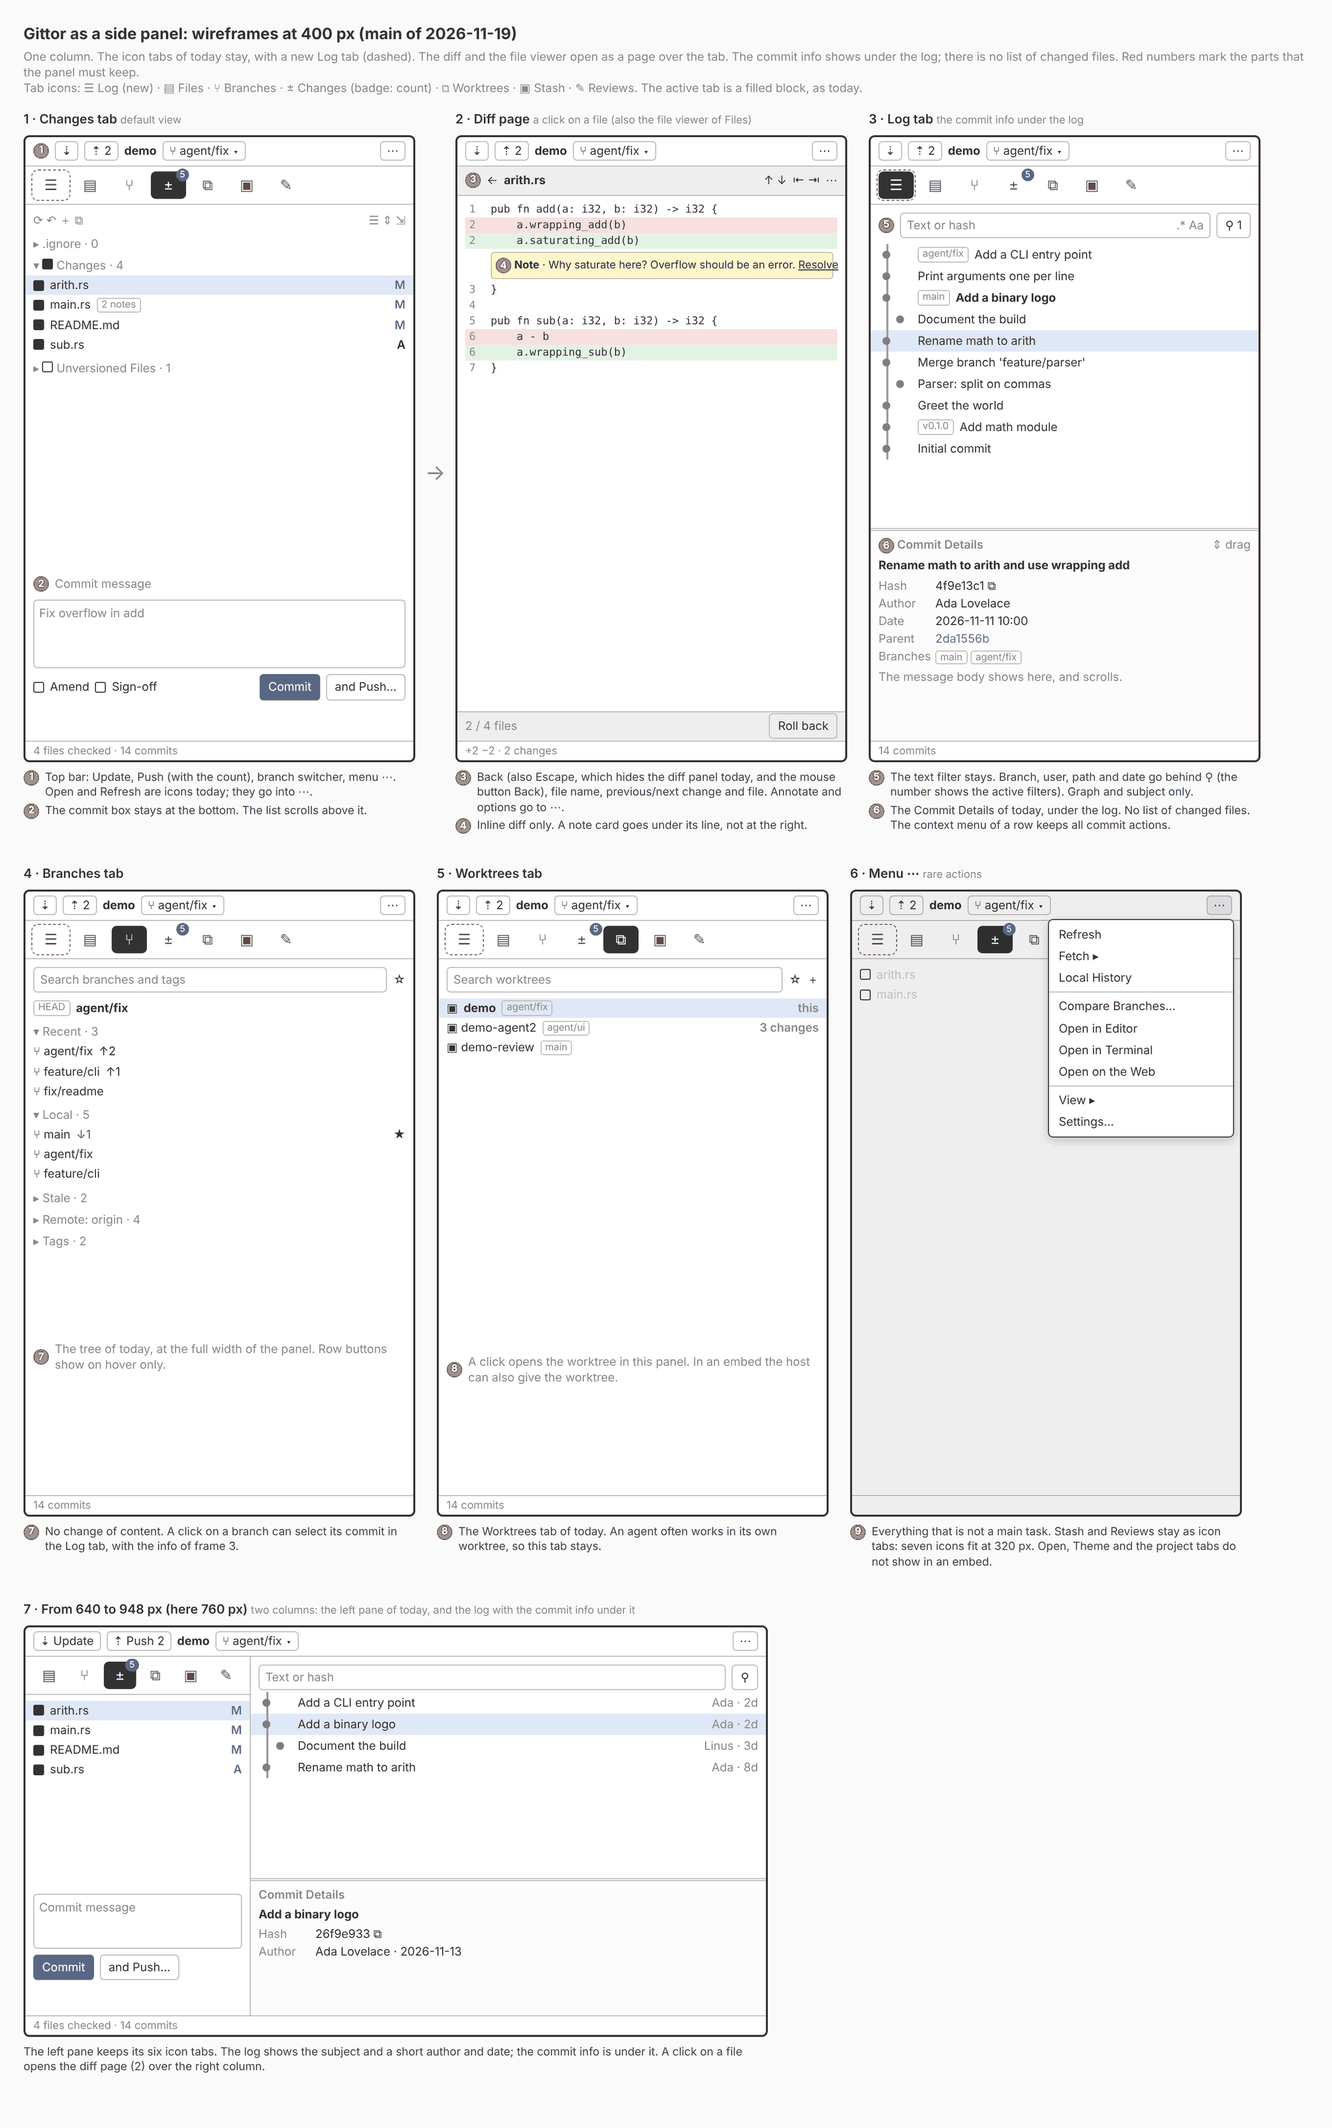
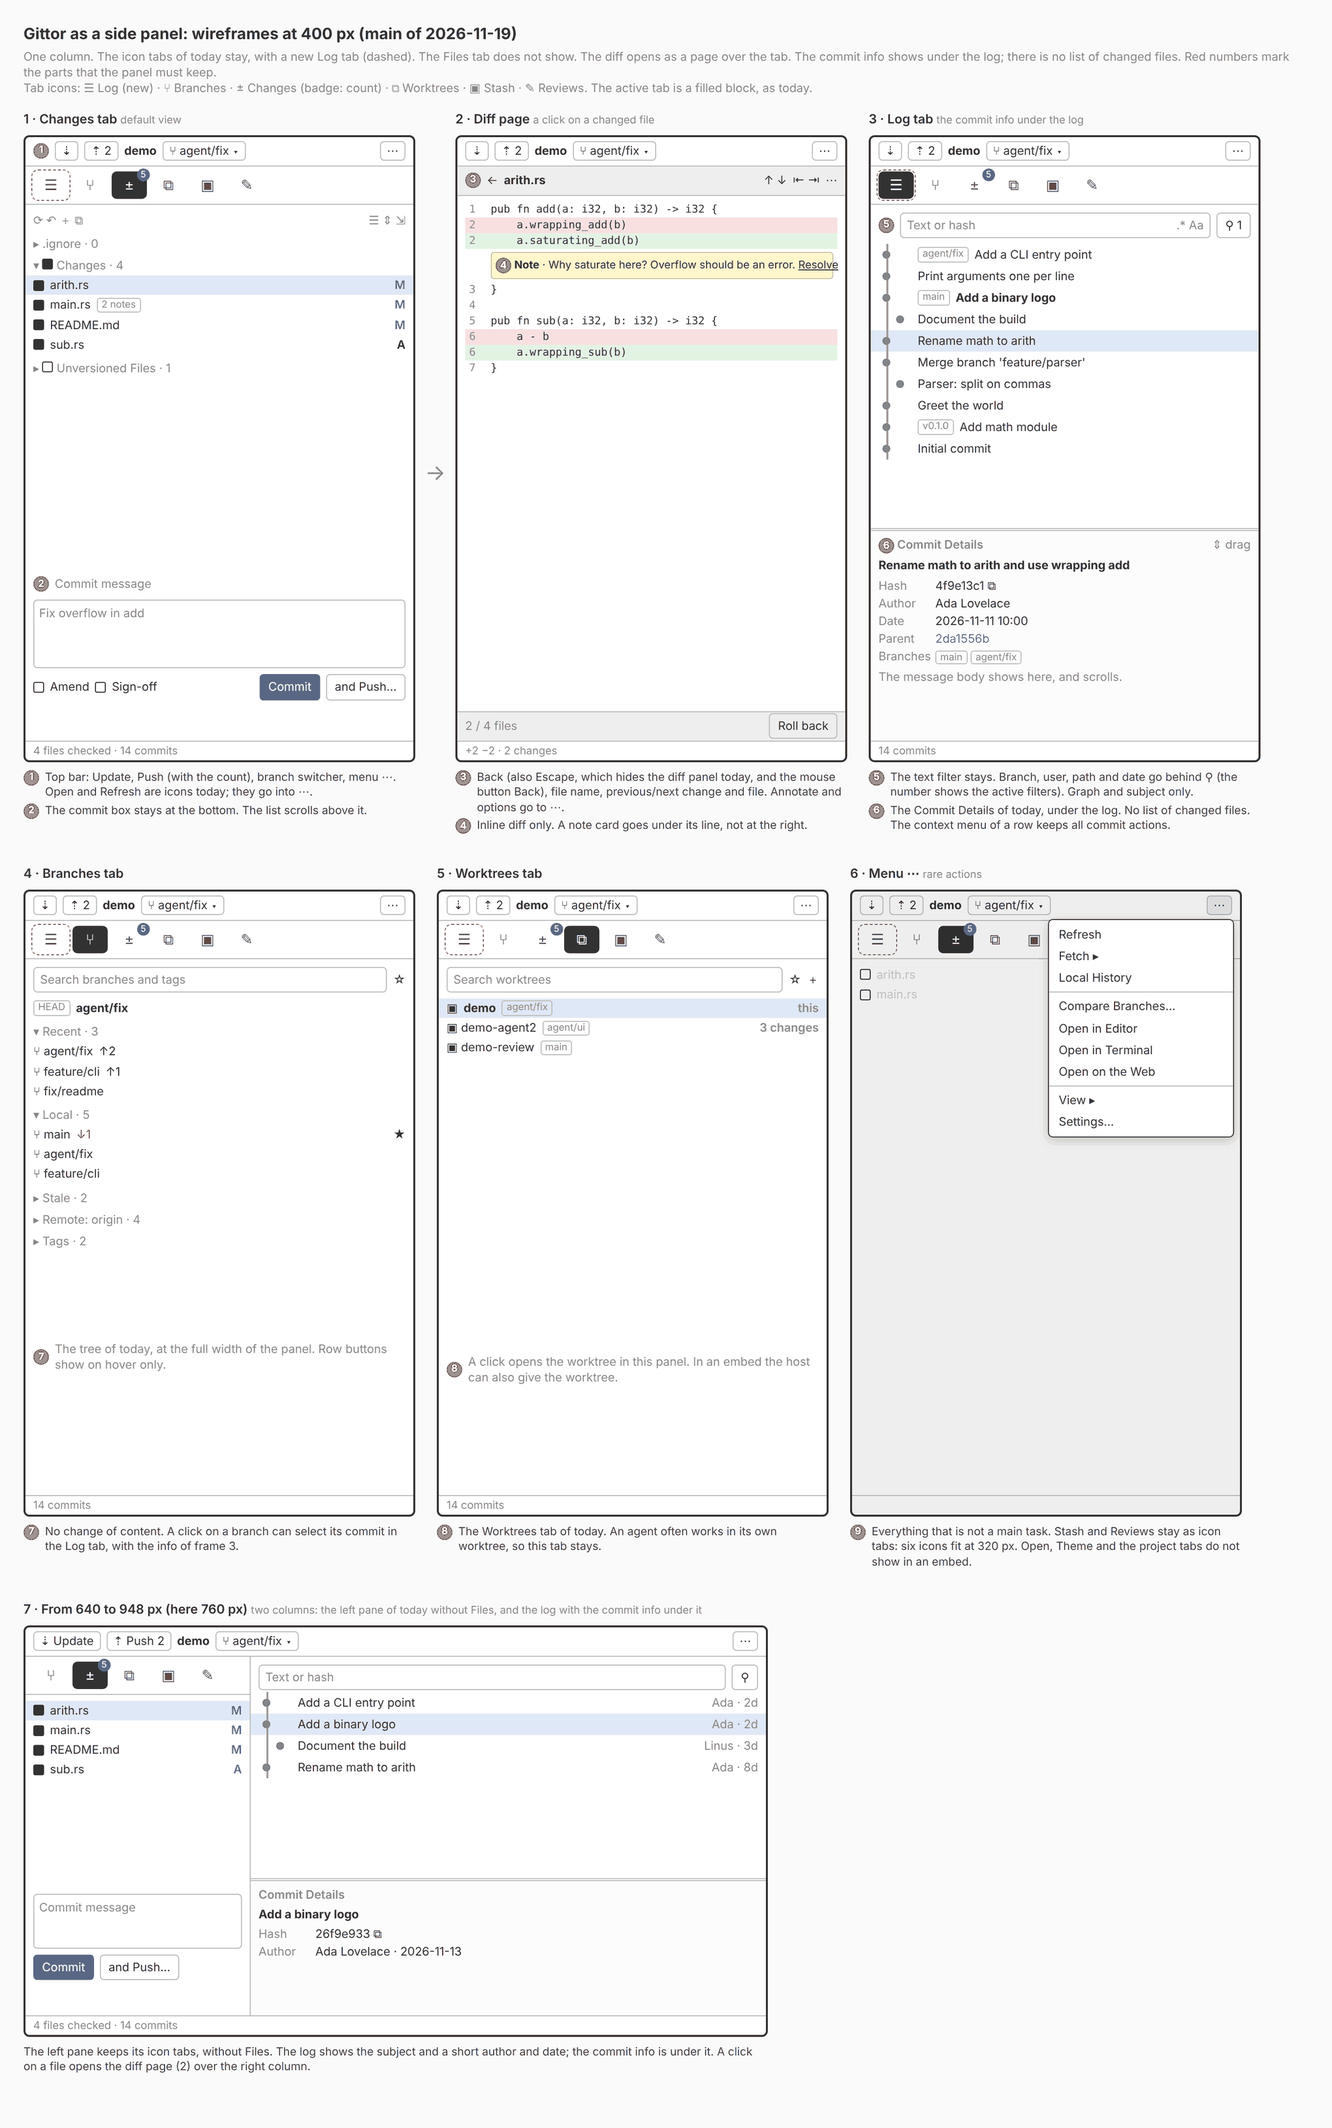
Narrow layout: hide the Files tab
The owner decided that the side panel does not need the Files tab. The
host editor shows the files.

The wireframes show five icon tabs and the new Log tab. The diff page
opens for a changed file only. The report hides the Files tab and its
key under the breakpoint.

Claude-Session: https://claude.ai/code/session_01Tuh4Sd5K2JTfGiGPAmueJ5

diff --git a/docs/narrow-layout/wireframes.html b/docs/narrow-layout/wireframes.html
@@ -69,7 +69,7 @@ h1 { font-size:16px; margin:0 0 4px; } .sub { color:var(--mute); margin:0 0 16px
 .split .t { color:var(--mute); font-weight:600; margin-bottom:4px; }
 </style></head><body>
 <h1>Gittor as a side panel: wireframes at 400 px (main of 2026-11-19)</h1>
-<p class="sub">One column. The icon tabs of today stay, with a new Log tab (dashed). The diff and the file viewer open as a page over the tab. The commit info shows under the log; there is no list of changed files. Red numbers mark the parts that the panel must keep.<br>Tab icons: ☰ Log (new) · ▤ Files · ⑂ Branches · ± Changes (badge: count) · ⧉ Worktrees · ▣ Stash · ✎ Reviews. The active tab is a filled block, as today.</p>
+<p class="sub">One column. The icon tabs of today stay, with a new Log tab (dashed). The Files tab does not show. The diff opens as a page over the tab. The commit info shows under the log; there is no list of changed files. Red numbers mark the parts that the panel must keep.<br>Tab icons: ☰ Log (new) · ⑂ Branches · ± Changes (badge: count) · ⧉ Worktrees · ▣ Stash · ✎ Reviews. The active tab is a filled block, as today.</p>
 
 <div class="section"><div class="row">
 
@@ -77,7 +77,7 @@ h1 { font-size:16px; margin:0 0 4px; } .sub { color:var(--mute); margin:0 0 16px
 <p class="cap">1 · Changes tab <small>default view</small></p>
 <div class="frame">
   <div class="top"><span class="call">1</span><span class="b">⇣</span><span class="b">⇡ 2</span><b>demo</b><span class="b">⑂ agent/fix ▾</span><span class="sp"></span><span class="b">⋯</span></div>
-  <div class="itabs"><span class="it new" title="Log">☰</span><span class="it" title="Files">▤</span><span class="it" title="Branches">⑂</span><span class="it on" title="Changes">±<span class="bd">5</span></span><span class="it" title="Worktrees">⧉</span><span class="it" title="Stash">▣</span><span class="it" title="Reviews">✎</span></div>
+  <div class="itabs"><span class="it new" title="Log">☰</span><span class="it" title="Branches">⑂</span><span class="it on" title="Changes">±<span class="bd">5</span></span><span class="it" title="Worktrees">⧉</span><span class="it" title="Stash">▣</span><span class="it" title="Reviews">✎</span></div>
   <div class="body">
     <div class="f" style="color:var(--mute)">⟳ ↶ ＋ ⧉ <span style="margin-left:auto">☰ ⇕ ⇲</span></div>
     <div class="grp">▸ .ignore · 0</div>
@@ -103,7 +103,7 @@ h1 { font-size:16px; margin:0 0 4px; } .sub { color:var(--mute); margin:0 0 16px
 <div class="arrow">→</div>
 
 <div class="col">
-<p class="cap">2 · Diff page <small>a click on a file (also the file viewer of Files)</small></p>
+<p class="cap">2 · Diff page <small>a click on a changed file</small></p>
 <div class="frame">
   <div class="top"><span class="b">⇣</span><span class="b">⇡ 2</span><b>demo</b><span class="b">⑂ agent/fix ▾</span><span class="sp"></span><span class="b">⋯</span></div>
   <div class="pagebar"><span class="call">3</span>←<b>arith.rs</b><span>↑ ↓</span><span>⇤ ⇥</span><span>⋯</span></div>
@@ -132,7 +132,7 @@ h1 { font-size:16px; margin:0 0 4px; } .sub { color:var(--mute); margin:0 0 16px
 <p class="cap">3 · Log tab <small>the commit info under the log</small></p>
 <div class="frame">
   <div class="top"><span class="b">⇣</span><span class="b">⇡ 2</span><b>demo</b><span class="b">⑂ agent/fix ▾</span><span class="sp"></span><span class="b">⋯</span></div>
-  <div class="itabs"><span class="it on new" title="Log">☰</span><span class="it" title="Files">▤</span><span class="it" title="Branches">⑂</span><span class="it" title="Changes">±<span class="bd">5</span></span><span class="it" title="Worktrees">⧉</span><span class="it" title="Stash">▣</span><span class="it" title="Reviews">✎</span></div>
+  <div class="itabs"><span class="it on new" title="Log">☰</span><span class="it" title="Branches">⑂</span><span class="it" title="Changes">±<span class="bd">5</span></span><span class="it" title="Worktrees">⧉</span><span class="it" title="Stash">▣</span><span class="it" title="Reviews">✎</span></div>
   <div class="body" style="flex:none;height:330px">
     <div class="f"><span class="call">5</span><div class="input" style="flex:1">Text or hash <i>.* Aa</i></div><span class="btn">⚲ 1</span></div>
     <div style="height:4px"></div>
@@ -169,7 +169,7 @@ h1 { font-size:16px; margin:0 0 4px; } .sub { color:var(--mute); margin:0 0 16px
 <p class="cap">4 · Branches tab</p>
 <div class="frame">
   <div class="top"><span class="b">⇣</span><span class="b">⇡ 2</span><b>demo</b><span class="b">⑂ agent/fix ▾</span><span class="sp"></span><span class="b">⋯</span></div>
-  <div class="itabs"><span class="it new" title="Log">☰</span><span class="it" title="Files">▤</span><span class="it on" title="Branches">⑂</span><span class="it" title="Changes">±<span class="bd">5</span></span><span class="it" title="Worktrees">⧉</span><span class="it" title="Stash">▣</span><span class="it" title="Reviews">✎</span></div>
+  <div class="itabs"><span class="it new" title="Log">☰</span><span class="it on" title="Branches">⑂</span><span class="it" title="Changes">±<span class="bd">5</span></span><span class="it" title="Worktrees">⧉</span><span class="it" title="Stash">▣</span><span class="it" title="Reviews">✎</span></div>
   <div class="body">
     <div class="f"><div class="input" style="flex:1">Search branches and tags</div><span>☆</span></div>
     <div class="f" style="margin-top:4px"><span class="tag">HEAD</span> <b>agent/fix</b></div>
@@ -196,7 +196,7 @@ h1 { font-size:16px; margin:0 0 4px; } .sub { color:var(--mute); margin:0 0 16px
 <p class="cap">5 · Worktrees tab</p>
 <div class="frame">
   <div class="top"><span class="b">⇣</span><span class="b">⇡ 2</span><b>demo</b><span class="b">⑂ agent/fix ▾</span><span class="sp"></span><span class="b">⋯</span></div>
-  <div class="itabs"><span class="it new" title="Log">☰</span><span class="it" title="Files">▤</span><span class="it" title="Branches">⑂</span><span class="it" title="Changes">±<span class="bd">5</span></span><span class="it on" title="Worktrees">⧉</span><span class="it" title="Stash">▣</span><span class="it" title="Reviews">✎</span></div>
+  <div class="itabs"><span class="it new" title="Log">☰</span><span class="it" title="Branches">⑂</span><span class="it" title="Changes">±<span class="bd">5</span></span><span class="it on" title="Worktrees">⧉</span><span class="it" title="Stash">▣</span><span class="it" title="Reviews">✎</span></div>
   <div class="body">
     <div class="f"><div class="input" style="flex:1">Search worktrees</div><span>☆</span><span>＋</span></div>
     <div class="f sel" style="margin-top:4px">▣ <b>demo</b> <span class="tag">agent/fix</span> <span class="m" style="color:var(--mute)">this</span></div>
@@ -214,7 +214,7 @@ h1 { font-size:16px; margin:0 0 4px; } .sub { color:var(--mute); margin:0 0 16px
 <p class="cap">6 · Menu ⋯ <small>rare actions</small></p>
 <div class="frame">
   <div class="top"><span class="b">⇣</span><span class="b">⇡ 2</span><b>demo</b><span class="b">⑂ agent/fix ▾</span><span class="sp"></span><span class="b" style="background:var(--hi)">⋯</span></div>
-  <div class="itabs"><span class="it new" title="Log">☰</span><span class="it" title="Files">▤</span><span class="it" title="Branches">⑂</span><span class="it on" title="Changes">±<span class="bd">5</span></span><span class="it" title="Worktrees">⧉</span><span class="it" title="Stash">▣</span><span class="it" title="Reviews">✎</span></div>
+  <div class="itabs"><span class="it new" title="Log">☰</span><span class="it" title="Branches">⑂</span><span class="it on" title="Changes">±<span class="bd">5</span></span><span class="it" title="Worktrees">⧉</span><span class="it" title="Stash">▣</span><span class="it" title="Reviews">✎</span></div>
   <div class="body" style="color:#ccc"><div class="f"><span class="box"></span> arith.rs</div><div class="f"><span class="box"></span> main.rs</div></div>
   <div class="dim"></div>
   <div class="menu">
@@ -224,18 +224,18 @@ h1 { font-size:16px; margin:0 0 4px; } .sub { color:var(--mute); margin:0 0 16px
   </div>
   <div class="status">&nbsp;</div>
 </div>
-<div class="legend"><p><span class="call">9</span>Everything that is not a main task. Stash and Reviews stay as icon tabs: seven icons fit at 320 px. Open, Theme and the project tabs do not show in an embed.</p></div>
+<div class="legend"><p><span class="call">9</span>Everything that is not a main task. Stash and Reviews stay as icon tabs: six icons fit at 320 px. Open, Theme and the project tabs do not show in an embed.</p></div>
 </div>
 
 </div></div>
 
 <div class="section">
-<p class="cap">7 · From 640 to 948 px (here 760 px) <small>two columns: the left pane of today, and the log with the commit info under it</small></p>
+<p class="cap">7 · From 640 to 948 px (here 760 px) <small>two columns: the left pane of today without Files, and the log with the commit info under it</small></p>
 <div class="wide"><div class="frame">
   <div class="top"><span class="b">⇣ Update</span><span class="b">⇡ Push 2</span><b>demo</b><span class="b">⑂ agent/fix ▾</span><span class="sp"></span><span class="b">⋯</span></div>
   <div class="cols">
     <div>
-      <div style="margin:-6px -8px 6px"><div class="itabs"><span class="it" title="Files">▤</span><span class="it" title="Branches">⑂</span><span class="it on" title="Changes">±<span class="bd">5</span></span><span class="it" title="Worktrees">⧉</span><span class="it" title="Stash">▣</span><span class="it" title="Reviews">✎</span></div></div>
+      <div style="margin:-6px -8px 6px"><div class="itabs"><span class="it" title="Branches">⑂</span><span class="it on" title="Changes">±<span class="bd">5</span></span><span class="it" title="Worktrees">⧉</span><span class="it" title="Stash">▣</span><span class="it" title="Reviews">✎</span></div></div>
       <div class="f sel"><span class="box x"></span> arith.rs <span class="m">M</span></div>
       <div class="f"><span class="box x"></span> main.rs <span class="m">M</span></div>
       <div class="f"><span class="box x"></span> README.md <span class="m">M</span></div>
@@ -257,7 +257,7 @@ h1 { font-size:16px; margin:0 0 4px; } .sub { color:var(--mute); margin:0 0 16px
   </div>
   <div class="status">4 files checked · 14 commits</div>
 </div></div>
-<div class="legend" style="width:760px"><p>The left pane keeps its six icon tabs. The log shows the subject and a short author and date; the commit info is under it. A click on a file opens the diff page (2) over the right column.</p></div>
+<div class="legend" style="width:760px"><p>The left pane keeps its icon tabs, without Files. The log shows the subject and a short author and date; the commit info is under it. A click on a file opens the diff page (2) over the right column.</p></div>
 </div>
 
 </body></html>

diff --git a/docs/narrow-layout.md b/docs/narrow-layout.md
@@ -52,7 +52,7 @@ Branches tab. Right: the Files tab. The log is cut on all three; the diff shows 
 | --- | --- | --- | --- |
 | Toolbar | Needs 748 px; less than half shows. | About half shows: Open, Refresh, Update, Push, part of Local History. | Settings, Theme, View, Terminal and IDE stay out of view. |
 | Project tabs | Scroll without a scroll bar. They work, but show 1 or 2 tabs. | Same. | Same. |
-| Left icon tabs (6) | No icon is cut. The six icons take about 270 px, so seven fit at 320 px. The column is often out of view. | Same. | Same. |
+| Left icon tabs (6) | No icon is cut. The six icons take about 270 px. The column is often out of view. | Same. | Same. |
 | Branches, Worktrees, Files, Changes, Stash, Reviews panels | Each fits in its 280 px column. | Same. | Same. |
 | Log columns | The center column is 300 px. The subject column has width 0; the header "Subject" overlaps "Author". | Same. | Same. |
 | Filter bar | Wraps to 3 rows; branch, path and date are out of view. | Same. | Same. |
@@ -91,10 +91,10 @@ Reviews of branches, interactive rebase, Settings, remotes, open a repository.
 | --- | --- | --- |
 | Changes tab | Keep. Default view. | Tasks 1 and 3. |
 | Diff of a local change | Keep, as a page over the whole panel, with a Back button. Force inline mode. | Task 2. |
-| File viewer of the Files tab | The same page as the diff. | It has no room in a center panel. |
 | Review notes | Keep. Note cards under their lines (view zones). | Task 4. |
 | Branch switcher, Update, Push | Keep in the top bar. | Tasks 5 and 7. |
-| Left icon tabs | Keep all six, and add a Log tab. Seven icons fit at 320 px. | The icons of today already fit. The keys `Mod+1`…`Mod+5` stay. |
+| Left icon tabs | Keep Branches, Changes, Worktrees, Stash and Reviews, and add a Log tab. Six icons fit at 320 px. | The icons of today already fit. The keys `Mod+1`…`Mod+5` stay. |
+| Files tab and its file viewer | Hide under the breakpoint. Turn off its key `` Mod+` ``. | The owner decided: a side panel next to an editor does not need it. The host shows the files. |
 | Worktrees tab | Keep. | Task 5. |
 | Log: graph and subject | Keep, in the Log tab. | Task 6. |
 | Log: author, date, hash | Hide under the breakpoint. | The subject needs the width. |
@@ -113,8 +113,8 @@ Reviews of branches, interactive rebase, Settings, remotes, open a repository.
 ### Idea A (recommended): one column with icon tabs, and pages that slide in
 
 - The top bar holds Update, Push with its count, the repository, the branch switcher and "⋯".
-- The icon tabs of today stay, with a new Log tab at the left.
-- A click on a local change, or on a file of the Files tab, opens a page over the tab. The page has
+- The icon tabs of today stay, without Files, and with a new Log tab at the left.
+- A click on a local change opens a page over the tab. The page has
   Back, the file name and the diff tools. Back, `Escape` (which hides the diff panel today) and the
   mouse button Back close it (`nav.ts` has a stack).
 - In the Log tab, the Commit Details of the selected commit show under the log. There is no list of
@@ -135,7 +135,7 @@ Reviews of branches, interactive rebase, Settings, remotes, open a repository.
 5. **Worktrees tab**. The tab of today. A click opens the worktree in this panel.
 6. **Menu ⋯**. Refresh, Fetch, Local History, Compare Branches, Open in Editor/Terminal/on the
    Web, View, Settings.
-7. **From 640 to 948 px**. Two columns: the left pane of today with its six icon tabs, and the log
+7. **From 640 to 948 px**. Two columns: the left pane of today without the Files tab, and the log
    with the Commit Details under it. A click on a file opens the diff page over the right column.
 
 The CSS-only prototype shows that the panels of today fit in this layout:
@@ -170,11 +170,10 @@ Existing code that helps:
   `shell.ts`. The narrow mode can set the grid in `applyLayout` without a change of the saved
   settings.
 - `lpTab` and `showLeftTab` in `shell.ts`: the icon tabs already switch the panels. A Log tab is one
-  more `lpTab` and one more value of `showLeftTab`.
+  more `lpTab` and one more value of `showLeftTab`. The Files tab can hide with its `hidden` property.
 - `DetailsPanel` (`details-panel.ts`): it fits under the log at 400 px without a change.
 - `settings.showAuthor`, `showDate`, `showHash` and the column code in `log-view.ts`.
 - `settings.sideBySide`: inline mode works at 320 px.
-- `centerTabs` and `fileHost` of the Files tab: the narrow page for a file can reuse `fileHost`.
 - `nav.ts` (`visit`, `navigate`) and the `hideDiff` key (`Escape`) for the Back of a page.
 - `menuBelow` in `context-menu.ts` for the menu "⋯".
 - The windows (`.history-window`) are in the page already, so they work in an iframe.
@@ -190,7 +189,7 @@ Modules that a later change touches:
 | `filter-bar.ts` | Fold the filters behind one button. |
 | `diff-view.ts`, `note-layer.ts` | Inline mode under the breakpoint; a Back button; note cards under the lines. |
 | `changes-panel.ts` | Hide under the breakpoint. |
-| `files-flow.ts` | Open a file as a page under the breakpoint. |
+| `files-flow.ts` | Hide the Files tab and its center tabs under the breakpoint. |
 | `windows.ts`, `compare-view.ts`, `history-view.ts`, `review-view.ts`, `merge-view.ts` | Full panel; one pane at a time. |
 | `settings-dialog.ts` | Section list as a select. |
 | `keyboard.ts` | Embed mode (see below). |
@@ -241,7 +240,7 @@ editor host:
 | `Mod+F` | Filter the log | Find |
 | `Mod+T` | Update | New tab, go to symbol |
 | `Mod+O` | Open repository | Open file |
-| `` Mod+` `` | Files tab | Toggle the terminal |
+| `` Mod+` `` | Files tab (off in the narrow layout) | Toggle the terminal |
 | `Alt+<n>`, `` Alt+` `` | Project tabs, switch project | Menus on Windows and Linux |
 | `Mod+PageUp/PageDown` | Next/previous tab | Next/previous editor |
 | `Mod+=`, `Mod+-`, `Mod+0` | Zoom | Zoom of the host |
